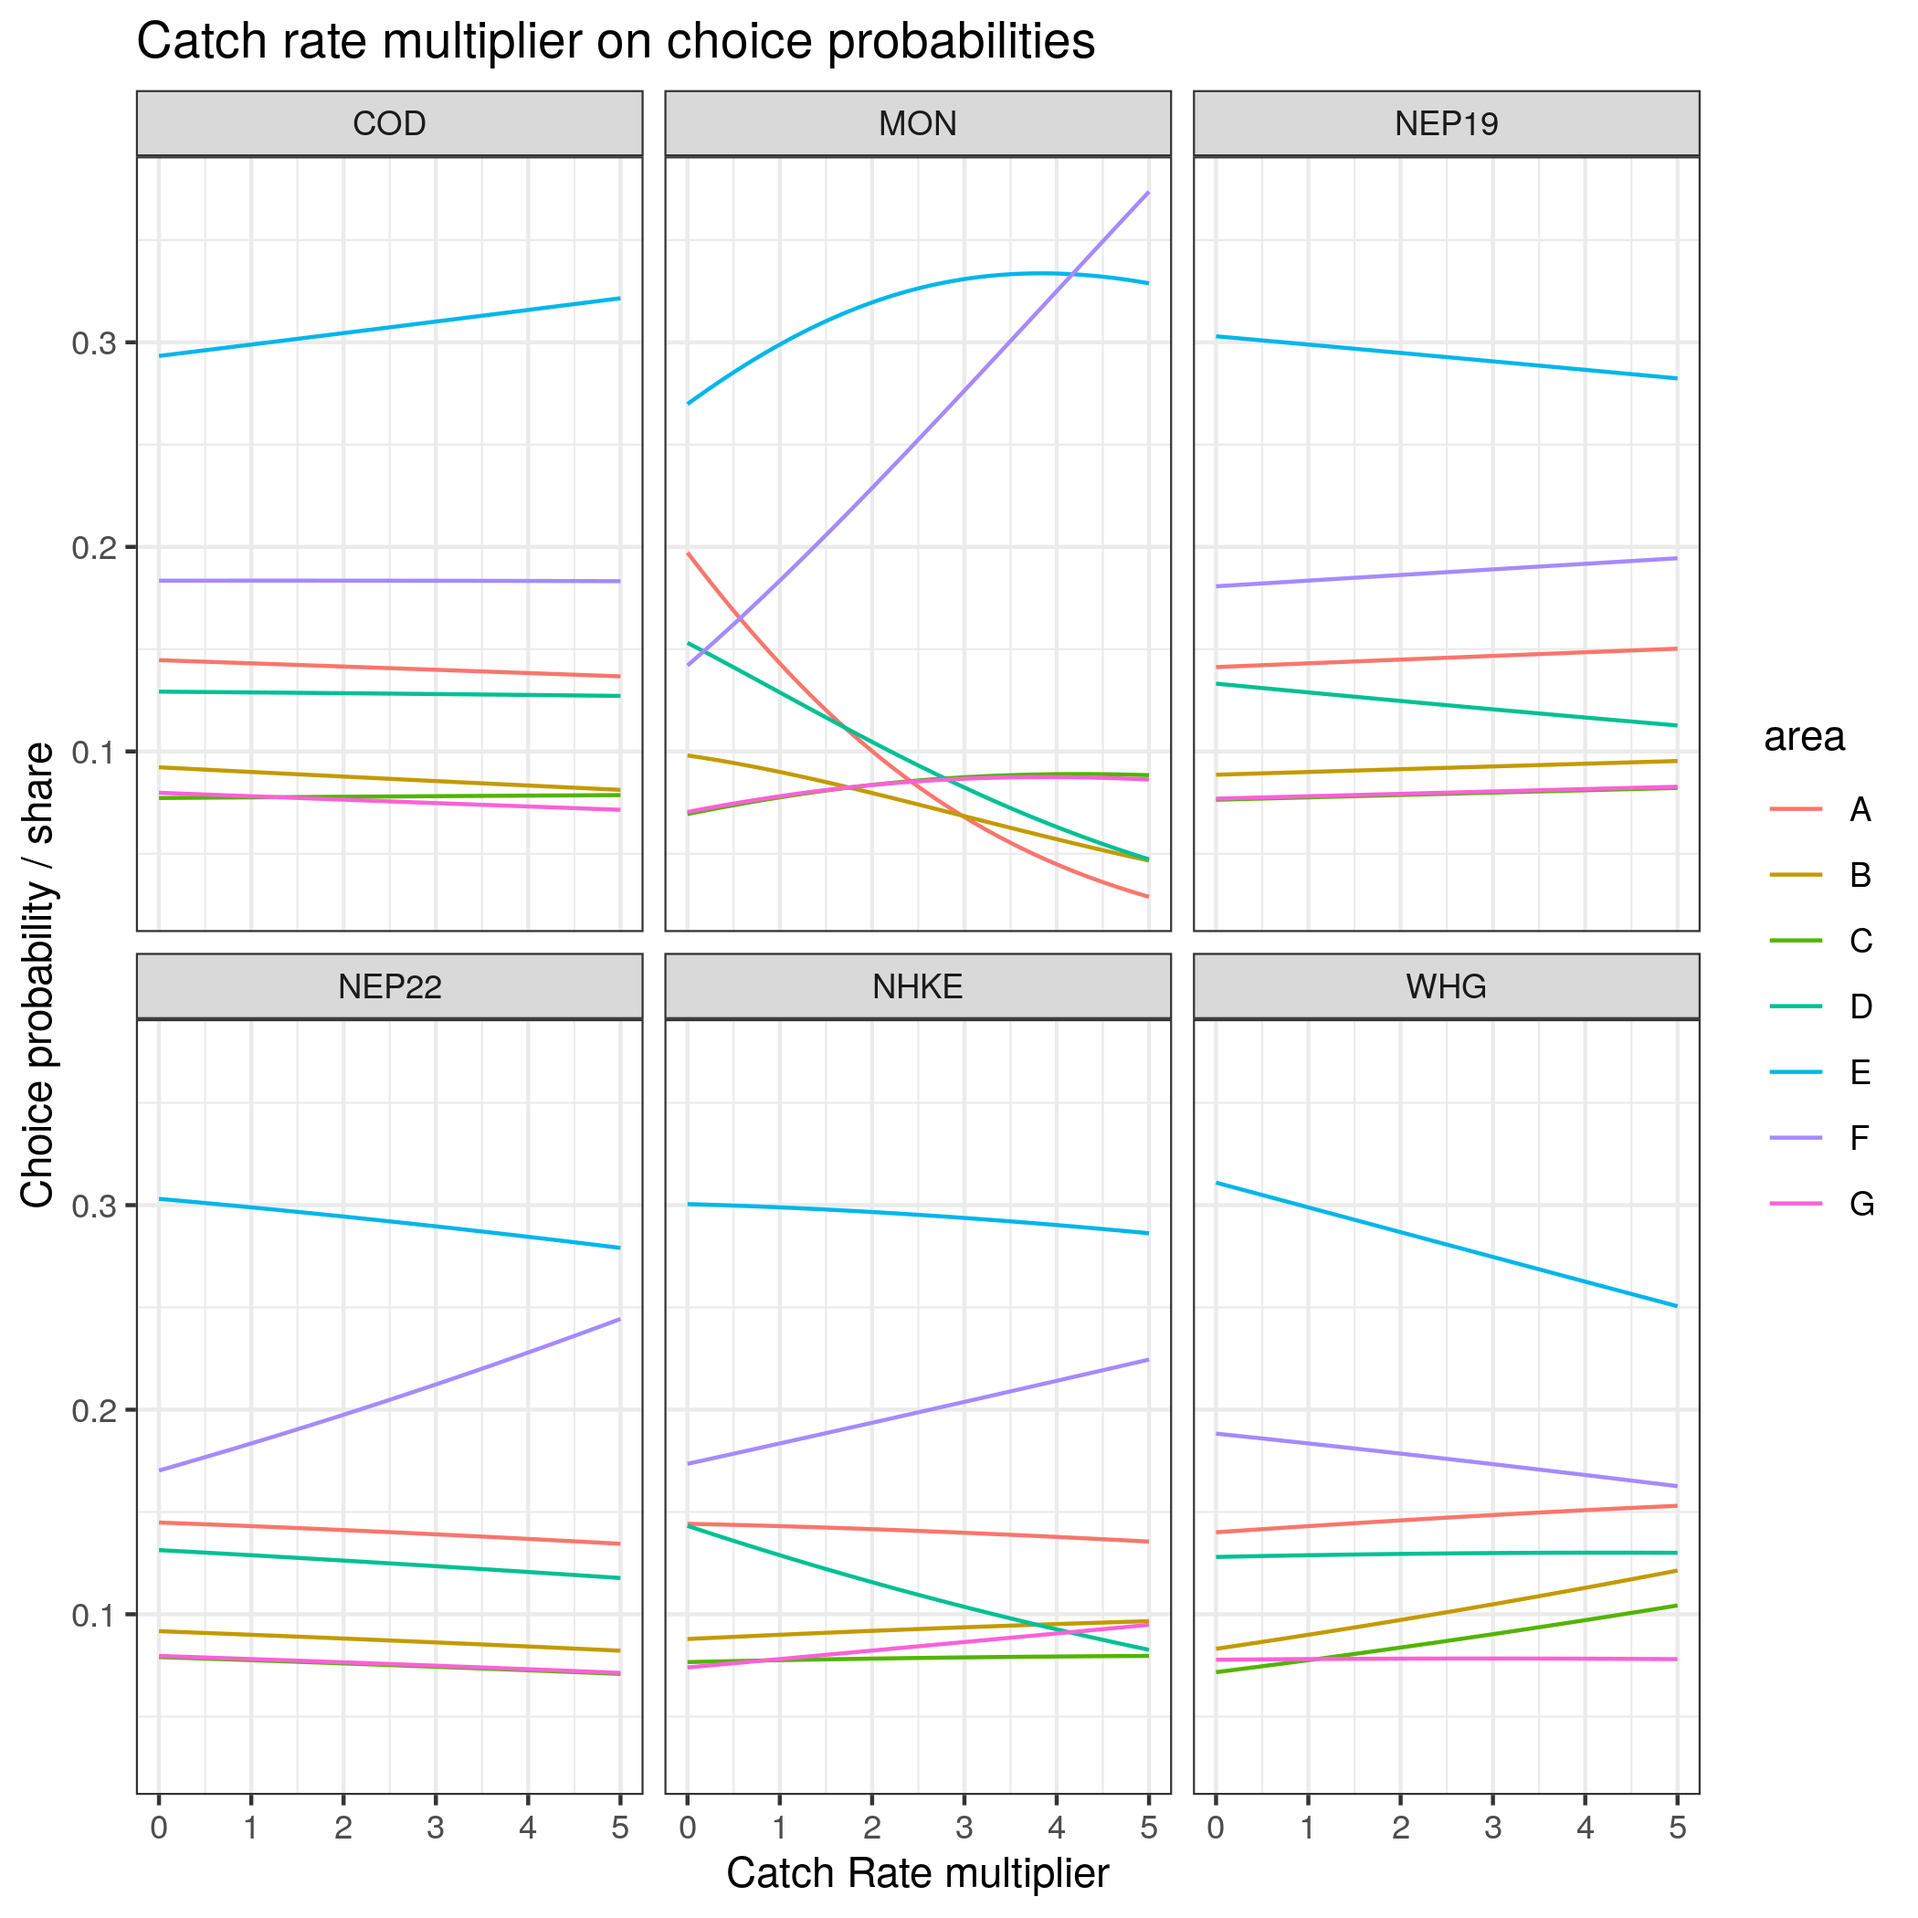
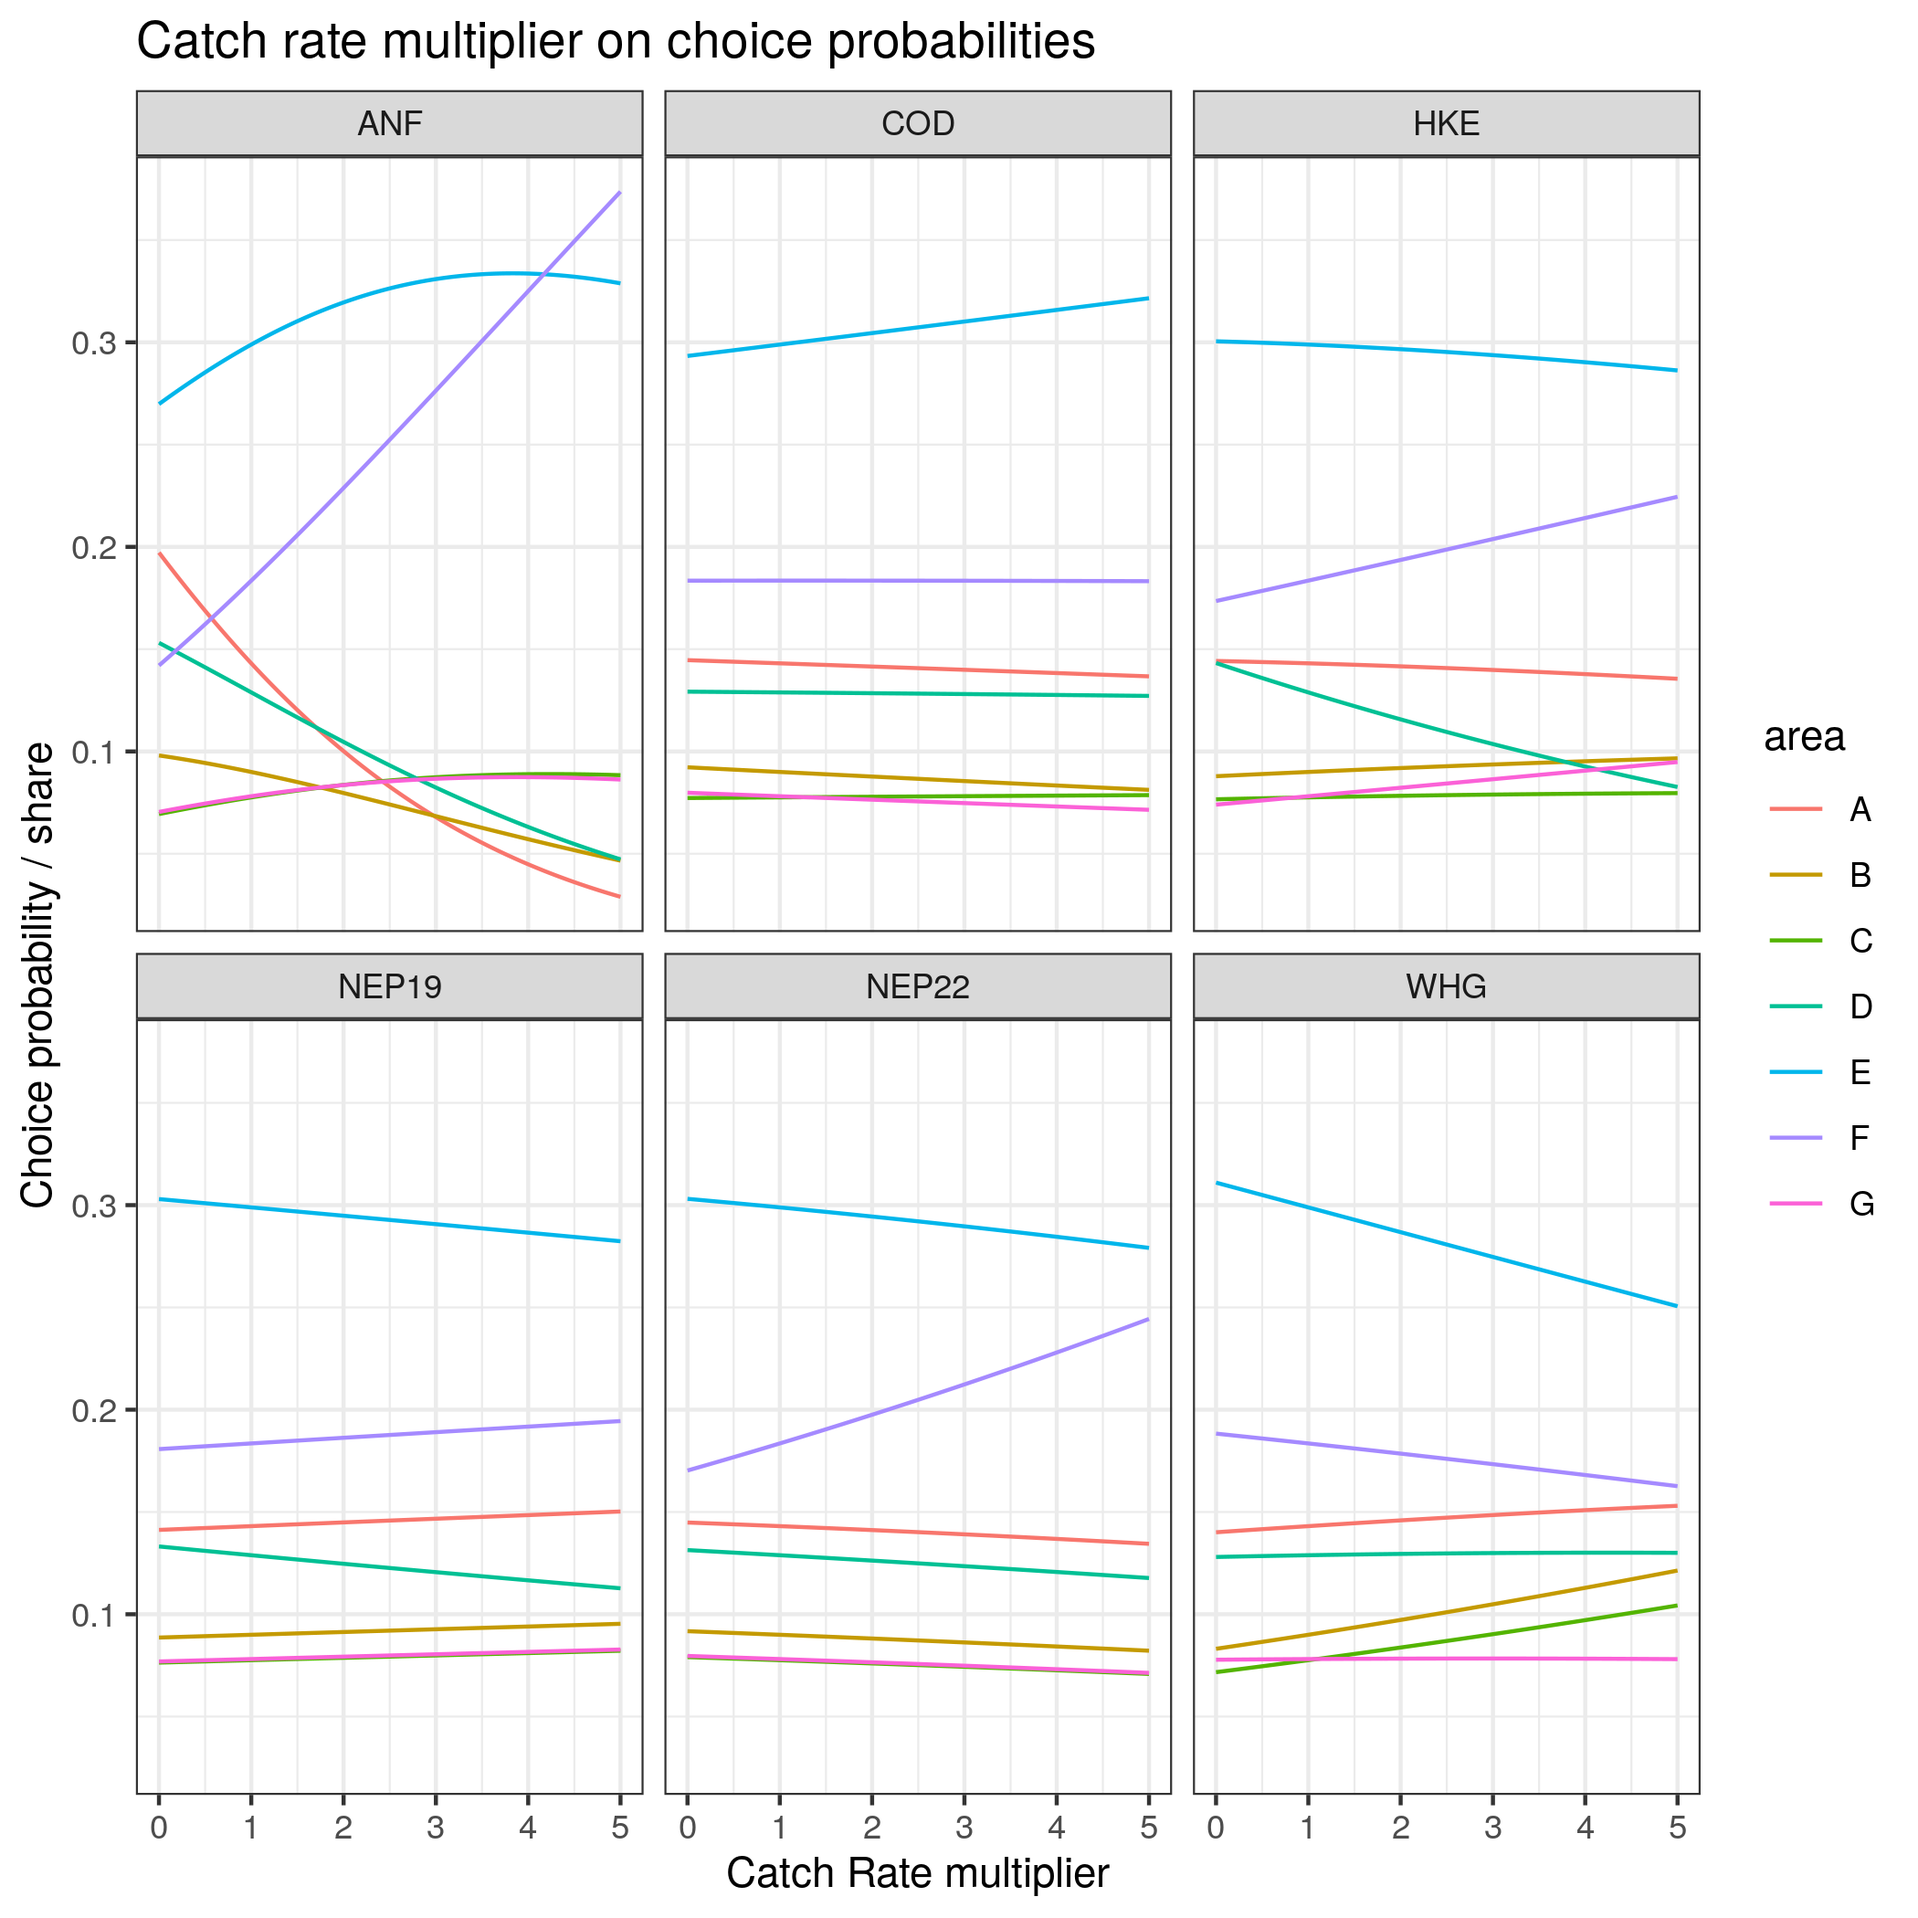
Revising figures

diff --git a/write_up/FleetDynamicsFLBEIA.tex b/write_up/FleetDynamicsFLBEIA.tex
@@ -13,8 +13,8 @@
 %%%%%%%%%%%%%%%%%%%%%%%%%%%%%%%%%%%%
 \begin{document}
 
-\title{Working title: Integrating location choice models in mixed-fishery
-	management strategy evaluations}
+\title{Working title: Alternative hypothesis for location choice in
+	mixed-fishery management strategy evaluation}
 
 \author{
 	\name{Paul J. Dolder}
@@ -148,7 +148,7 @@ The authors would like to thank...
 ggg
 \end{thebibliography}
 
-\newpage
+\clearpage
 
 \begin{table}
 	\center
@@ -158,9 +158,9 @@ ggg
 		\hline
 		Cod & COD & 0.35 & 7,300  & 10,300 \\
 		Haddock & HAD & 0.4 & 6,700 & 10,000 \\
-		Anglerfishes & ANF/MON & 0.28 & 16,032 & 22,278 \\
+		Anglerfishes & ANF & 0.28 & 16,032 & 22,278 \\
 		European Hake & HKE & 0.28 & 32,000 & 45,000 \\
-		Megrims & LEZ/NMEG & 0.191 & 37,100 & 41,800 \\
+		Megrims & LEZ & 0.191 & 37,100 & 41,800 \\
 		Whiting & WHG & 0.52 & 25,000 & 35,000 \\
 		\textit{Nephrops} FU16 & NEP16 & 0.062 & 19,880 & 49,700 \\
 		\textit{Nephrops} FU17 & NEP17 & 0.085 & 4,637 & 11,593 \\
@@ -174,54 +174,13 @@ ggg
 		stock when setting the overall annual Total Allowable Catch.}
 \end{table}
 
-\newpage
-
-\begin{figure}[!ht]
-	\centering
-	\includegraphics[width=1\linewidth]{figures/Gravity_Metier_Catch_Rate_Multiplier}
-	\caption{The influence of changes in catch rates of different stocks on
-	effort allocation among métier from the Gravity model.} 
-	\label{fig:Grav_CR}
-\end{figure}	
-
-\begin{figure}[!ht]
-	\centering
-	\includegraphics[width=1\linewidth]{figures/RUM_Metier_Catch_Rate_Multiplier}
-	\caption{The influence of changes in catch rates of different stocks on
-	effort allocation among métier from the RUM.} 
-	\label{fig:RUM_CR}
-\end{figure}	
-
-\begin{figure}[!ht]
-	\centering
-	\includegraphics[width=1\linewidth]{figures/Markov_Metier_Catch_Rate_Multiplier}
-	\caption{The influence of changes in catch rates of different stocks on
-	effort allocation among métier from the Markov model.} 
-	\label{fig:Markov_CR}
-\end{figure}	
-
-\begin{figure}[!ht]
-	\centering
-	\includegraphics[width=1\linewidth]{figures/RUM_metier_seasonal_effect}
-	\caption{Seasonal effect in the RUM model.} 
-	\label{fig:RUM_Seas}
-\end{figure}	
-
-\begin{figure}[!ht]
-	\centering
-	\includegraphics[width=1\linewidth]{figures/Markov_metier_seasonal_effect}
-	\caption{Seasonal effect in the Markov model.} 
-	\label{fig:Markov_Seas}
-\end{figure}	
-
-
-
+\clearpage
 
 \begin{figure}[!ht]
 	\centering
 \begin{subfigure}
 	\centering
-	\includegraphics[width=0.8\linewidth]{figures/Final_Metier_locations}
+	\includegraphics[width=0.6\linewidth]{figures/Final_Metier_locations}
 \end{subfigure}
 \begin{subfigure}
 	\centering
@@ -274,8 +233,6 @@ ggg
 	\label{fig:effort_chg}
 \end{figure}	
 
-
-
 \begin{figure}[!ht]
 	\centering
 	\includegraphics[width=1\linewidth]{figures/F_difference}
@@ -309,7 +266,7 @@ ggg
 		variability due to recruitment and catchability. Solid line
 		indicates end of the data/start of simulations and the dashed
 		line the implementation of the spatial closure.  Dotdashed and
-		dashed blue lines indicate the Blim reference and Btrigger
+		dashed blue lines indicate the Blim reference and Bmsytrigger
 		reference points respectively.} 
 	\label{fig:SSB}
 \end{figure}	
@@ -323,6 +280,53 @@ ggg
 		dashed line the implementation of the spatial closure.} 
 	\label{fig:risk}
 \end{figure}	
+
+\clearpage
+
+\section{Appendices}
+
+\textbf{Appendix A}
+
+\begin{figure}[!ht]
+	\centering
+	\includegraphics[width=1\linewidth]{figures/Gravity_Metier_Catch_Rate_Multiplier}
+	\caption{The influence of changes in catch rates of different stocks on
+	effort allocation among métier from the Gravity model.} 
+	\label{fig:Grav_CR}
+\end{figure}	
+
+\begin{figure}[!ht]
+	\centering
+	\includegraphics[width=1\linewidth]{figures/RUM_Metier_Catch_Rate_Multiplier}
+	\caption{The influence of changes in catch rates of different stocks on
+	effort allocation among métier from the RUM.} 
+	\label{fig:RUM_CR}
+\end{figure}	
+
+\begin{figure}[!ht]
+	\centering
+	\includegraphics[width=1\linewidth]{figures/Markov_Metier_Catch_Rate_Multiplier}
+	\caption{The influence of changes in catch rates of different stocks on
+	effort allocation among métier from the Markov model.} 
+	\label{fig:Markov_CR}
+\end{figure}	
+
+\begin{figure}[!ht]
+	\centering
+	\includegraphics[width=1\linewidth]{figures/RUM_metier_seasonal_effect}
+	\caption{Seasonal effect in the RUM model.} 
+	\label{fig:RUM_Seas}
+\end{figure}	
+
+\begin{figure}[!ht]
+	\centering
+	\includegraphics[width=1\linewidth]{figures/Markov_metier_seasonal_effect}
+	\caption{Seasonal effect in the Markov model.} 
+	\label{fig:Markov_Seas}
+\end{figure}	
+
+
+
 
 %%%%%%%%%%%%%%%%%%%%%%%%%
 \end{document}
